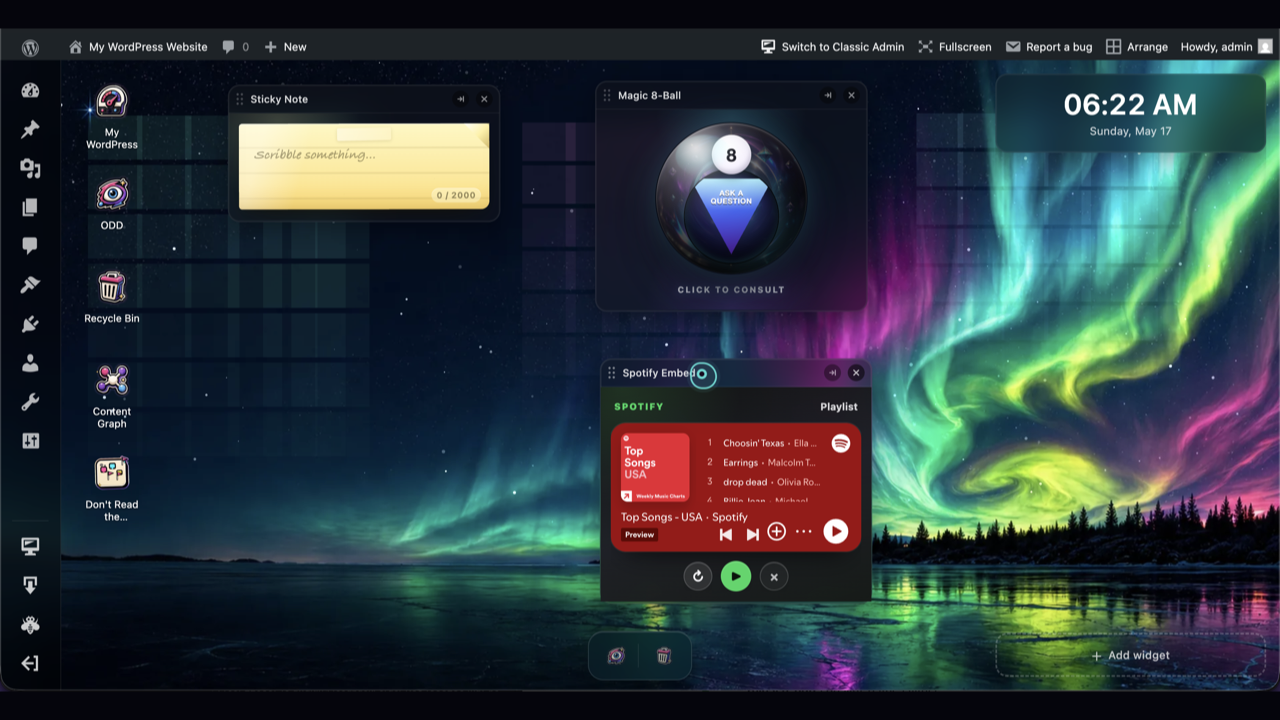
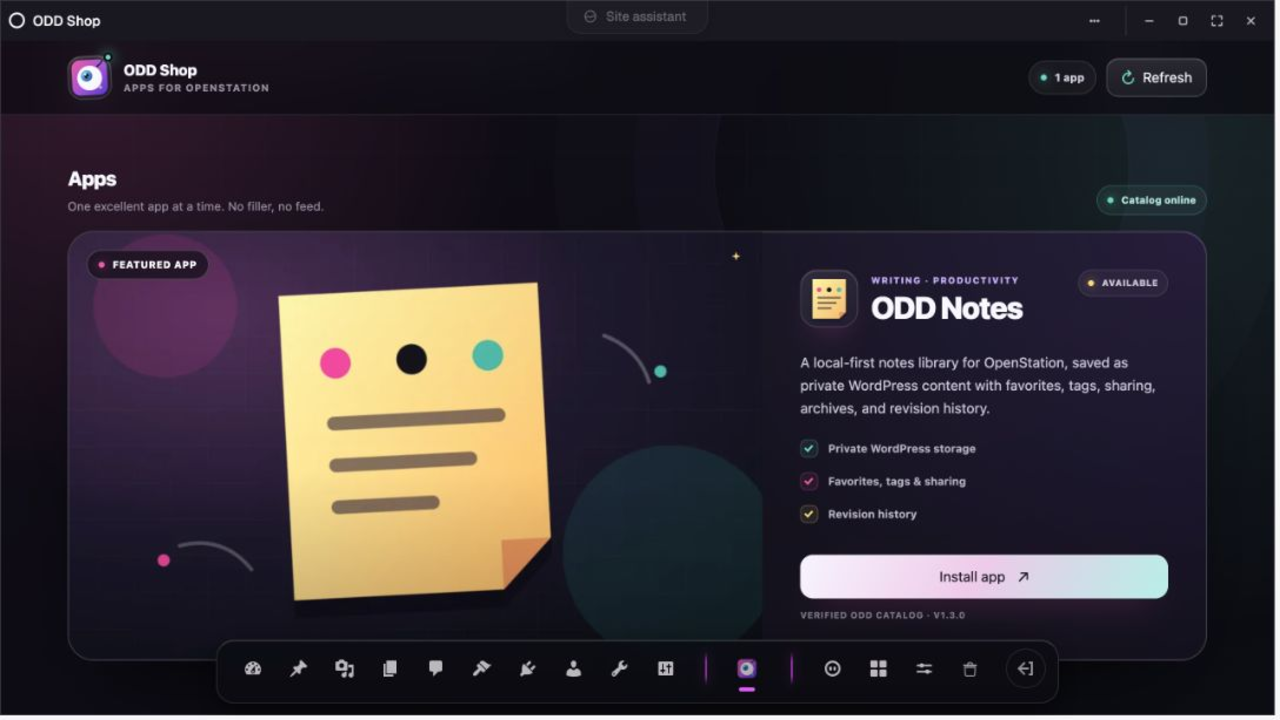
Prepare ODD 1.1.5 release

diff --git a/site/playground/index.html b/site/playground/index.html
@@ -14,13 +14,13 @@
 		( function () {
 			'use strict';
 			// Query string busts Playground/browser caches when the blueprint shape changes.
-			var blueprint = 'https://odd.regionallyfamous.com/playground/blueprint.json?oddbp=wporg-odd-1.1.4-dm-0.8.8';
+			var blueprint = 'https://odd.regionallyfamous.com/playground/blueprint.json?oddbp=wporg-odd-1.1.5-dm-0.8.8';
 			var target = 'https://playground.wordpress.net/?mode=seamless&blueprint-url=' + encodeURIComponent( blueprint );
 			window.location.replace( target );
 		} )();
 	</script>
 	<noscript>
-			<meta http-equiv="refresh" content="0; url=https://playground.wordpress.net/?mode=seamless&blueprint-url=https%3A%2F%2Fodd.regionallyfamous.com%2Fplayground%2Fblueprint.json%3Foddbp%3Dwporg-odd-1.1.4-dm-0.8.8">
+			<meta http-equiv="refresh" content="0; url=https://playground.wordpress.net/?mode=seamless&blueprint-url=https%3A%2F%2Fodd.regionallyfamous.com%2Fplayground%2Fblueprint.json%3Foddbp%3Dwporg-odd-1.1.5-dm-0.8.8">
 	</noscript>
 </head>
 <body>
@@ -30,7 +30,7 @@
 			<h1>Opening ODD in WordPress Playground.</h1>
 			<p class="lede">If you are not redirected automatically, use the button below.</p>
 			<div class="actions">
-				<a class="button primary" href="https://playground.wordpress.net/?mode=seamless&blueprint-url=https%3A%2F%2Fodd.regionallyfamous.com%2Fplayground%2Fblueprint.json%3Foddbp%3Dwporg-odd-1.1.4-dm-0.8.8">Open Playground</a>
+				<a class="button primary" href="https://playground.wordpress.net/?mode=seamless&blueprint-url=https%3A%2F%2Fodd.regionallyfamous.com%2Fplayground%2Fblueprint.json%3Foddbp%3Dwporg-odd-1.1.5-dm-0.8.8">Open Playground</a>
 				<a class="button" href="/playground/preview/">Preview catalog</a>
 				<a class="button" href="/playground/dev/">Trunk preview (dev)</a>
 				<a class="button" href="/">Back to ODD</a>

diff --git a/site/go/index.html b/site/go/index.html
@@ -10,15 +10,15 @@
 	<script>
 		( function () {
 			'use strict';
-				var blueprint = 'https://odd.regionallyfamous.com/playground/blueprint.json?oddbp=wporg-odd-1.1.4-dm-0.8.8';
+				var blueprint = 'https://odd.regionallyfamous.com/playground/blueprint.json?oddbp=wporg-odd-1.1.5-dm-0.8.8';
 			window.location.replace( 'https://playground.wordpress.net/?mode=seamless&blueprint-url=' + encodeURIComponent( blueprint ) );
 		} )();
 	</script>
 	<noscript>
-			<meta http-equiv="refresh" content="0; url=https://playground.wordpress.net/?mode=seamless&blueprint-url=https%3A%2F%2Fodd.regionallyfamous.com%2Fplayground%2Fblueprint.json%3Foddbp%3Dwporg-odd-1.1.4-dm-0.8.8">
+			<meta http-equiv="refresh" content="0; url=https://playground.wordpress.net/?mode=seamless&blueprint-url=https%3A%2F%2Fodd.regionallyfamous.com%2Fplayground%2Fblueprint.json%3Foddbp%3Dwporg-odd-1.1.5-dm-0.8.8">
 	</noscript>
 </head>
 <body style="font-family: system-ui, sans-serif; padding: 2rem; background: #0c0f18; color: #e8ecf4;">
-		<p><a style="color: #7ad7ff;" href="https://playground.wordpress.net/?mode=seamless&blueprint-url=https%3A%2F%2Fodd.regionallyfamous.com%2Fplayground%2Fblueprint.json%3Foddbp%3Dwporg-odd-1.1.4-dm-0.8.8">Continue to Playground →</a></p>
+		<p><a style="color: #7ad7ff;" href="https://playground.wordpress.net/?mode=seamless&blueprint-url=https%3A%2F%2Fodd.regionallyfamous.com%2Fplayground%2Fblueprint.json%3Foddbp%3Dwporg-odd-1.1.5-dm-0.8.8">Continue to Playground →</a></p>
 </body>
 </html>

diff --git a/odd/odd.php b/odd/odd.php
@@ -3,7 +3,7 @@
  * Plugin Name:       ODD — Outlandish Desktop Decorator
  * Plugin URI:        https://weirdpress.com/odd
  * Description:       A focused app store for OpenStation, beginning with ODD Notes.
- * Version:           1.1.4
+ * Version:           1.1.5
  * Requires at least: 6.8
  * Requires PHP:      8.1
  * Requires Plugins:  desktop-mode
@@ -19,7 +19,7 @@
 
 defined( 'ABSPATH' ) || exit;
 
-define( 'ODDOUT_VERSION', '1.1.4' );
+define( 'ODDOUT_VERSION', '1.1.5' );
 define( 'ODDOUT_OPENSTATION_MIN_VERSION', '1.1.0' );
 define( 'ODDOUT_FILE', __FILE__ );
 define( 'ODDOUT_DIR', plugin_dir_path( __FILE__ ) );

diff --git a/CHANGELOG.md b/CHANGELOG.md
@@ -11,6 +11,36 @@ notes to GitHub Releases.
 <a id="unreleased"></a>
 ## [Unreleased]
 
+<a id="v1.1.5"></a>
+## [1.1.5] — 2026-08-15
+
+### Added
+- ODD Notes is now the first-party app in a focused, apps-only ODD Shop. Notes
+  are private WordPress content with search, tags, favorites, archives, desktop
+  pinning, optional sharing, autosave, and revision restore.
+- The maintainable ODD Notes runtime now has focused unit coverage plus a real
+  WordPress/OpenStation browser test for create, edit, save, retry, and refresh.
+
+### Changed
+- ODD now targets OpenStation 1.1.0 and its current `openstation_*`, `wp.os`,
+  and `os.*` public contracts. OpenStation remains responsible for windows,
+  launchers, placement, and surrounding desktop chrome.
+- Retired wallpaper, icon-set, cursor, widget, shuffle, and custom-placement
+  systems are no longer loaded or published by the production catalog.
+- ODD Shop and ODD Notes received a complete visual redesign with a compact,
+  native-feeling dark interface and consistent monochrome action icons.
+
+### Fixed
+- Note updates now use an editable WordPress `POST` transport that preserves
+  JSON request bodies in WordPress Playground and other bridged environments.
+- Autosave preserves server-issued concurrency tokens while typing, accepts
+  idempotent stale retries, and only shows a conflict for genuinely different
+  competing edits.
+- Recovery journals are isolated by WordPress installation and user so drafts
+  cannot bleed between temporary Playground sites on the same origin.
+- Favorites, tags, paper colors, desktop pinning, sharing, archives, and note
+  text now persist through the same reliable update path.
+
 <a id="v1.1.4"></a>
 ## [1.1.4] — 2026-05-23
 
